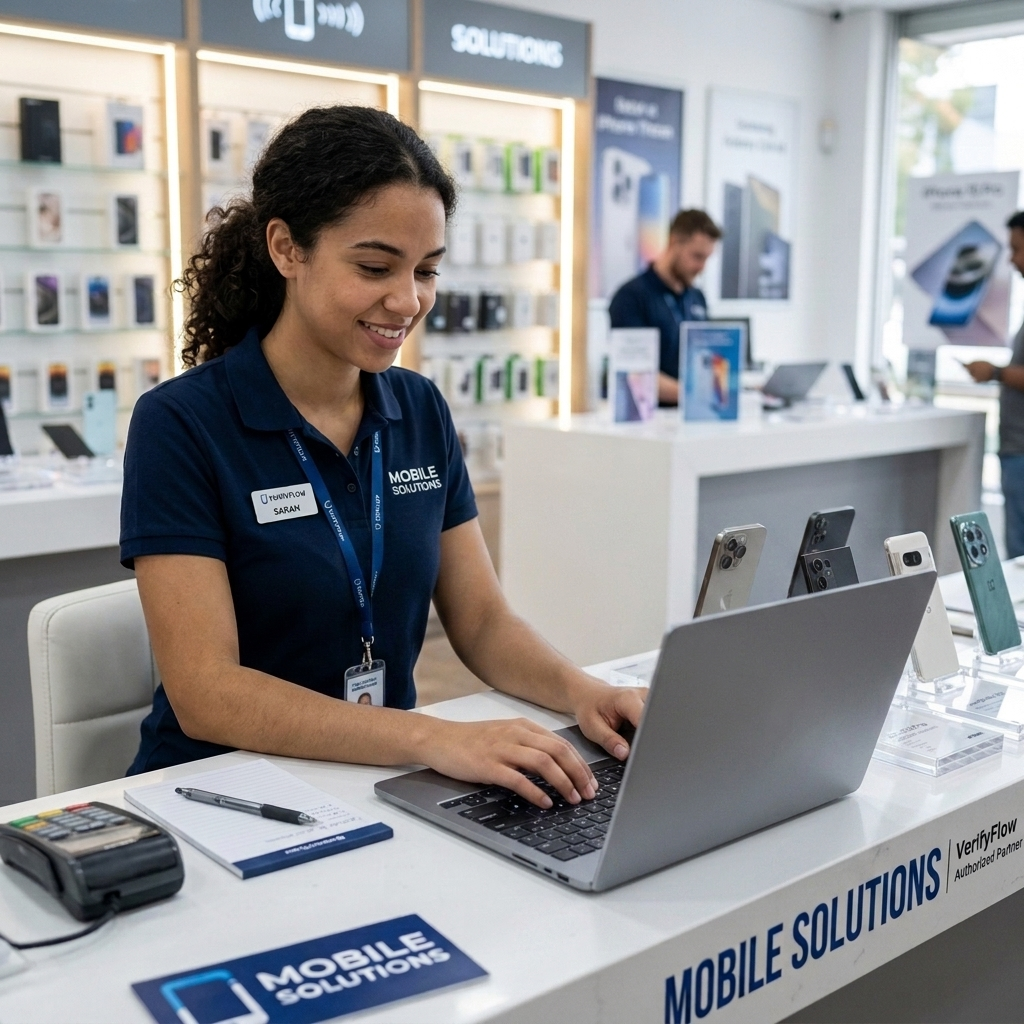
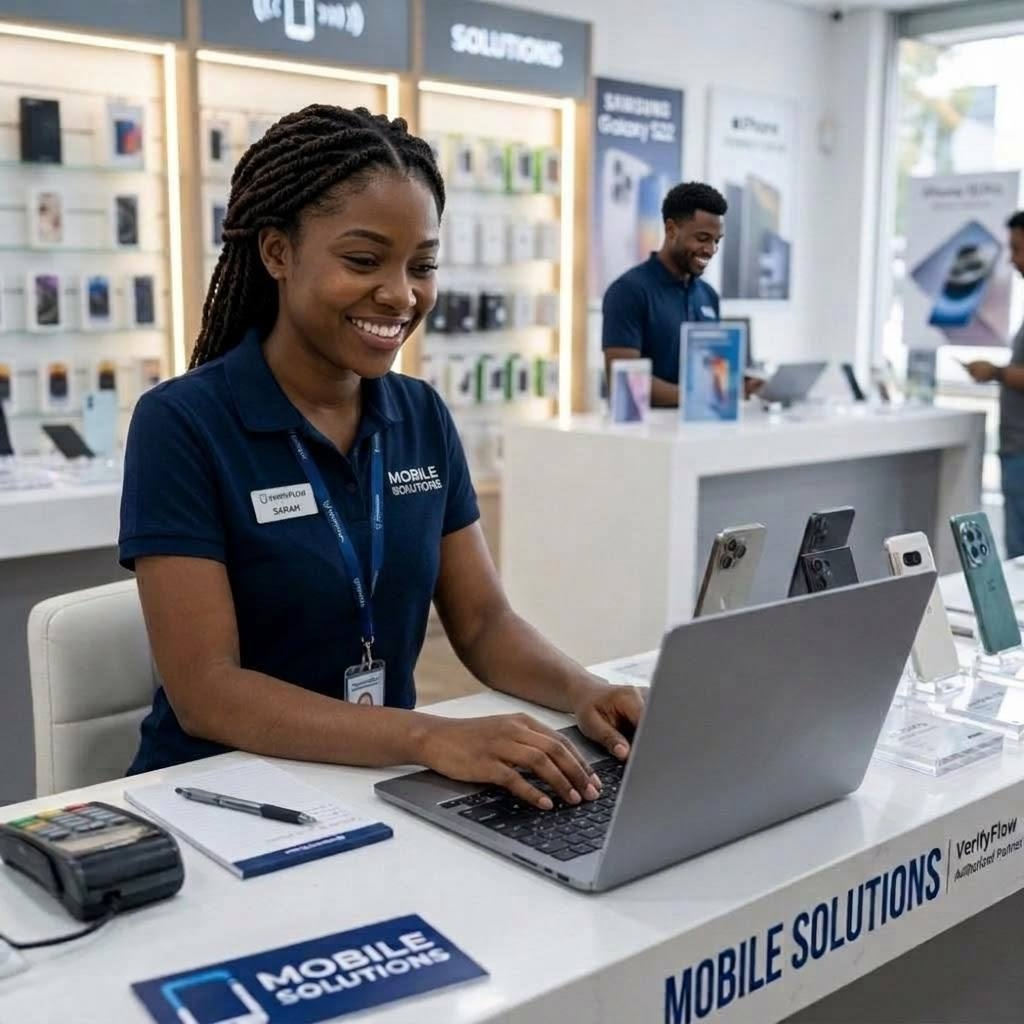
fixed side bar issue

diff --git a/apps/frontend/src/app/(dashboard)/layout.tsx b/apps/frontend/src/app/(dashboard)/layout.tsx
@@ -207,14 +207,14 @@ export default function DashboardLayout({ children }: { children: React.ReactNod
 
   return (
     <SubscriptionGuardProvider>
-      <div className="min-h-screen flex w-full max-w-full overflow-x-hidden bg-slate-50 dark:bg-slate-950 text-slate-900 dark:text-slate-100 pb-16 lg:pb-0 transition-colors duration-200">
+      <div className="h-screen w-full max-w-full overflow-hidden flex bg-slate-50 dark:bg-slate-950 text-slate-900 dark:text-slate-100 transition-colors duration-200">
         {/* Responsive Sidebar (Desktop Persistent + Mobile Drawer) */}
         <Sidebar isOpen={isMobileMenuOpen} onClose={() => setIsMobileMenuOpen(false)} />
 
-        {/* Main Workspace */}
-        <div className="flex-1 flex flex-col min-w-0 w-full max-w-full overflow-x-hidden overflow-y-auto">
+        {/* Main Workspace (Scrolls independently while Sidebar stays 100% fixed) */}
+        <div className="flex-1 flex flex-col h-full min-w-0 w-full max-w-full overflow-y-auto overflow-x-hidden pb-16 lg:pb-0">
           {/* Top Navigation Header */}
-          <header className="h-16 border-b border-slate-200/80 dark:border-slate-800 px-3 sm:px-6 flex items-center justify-between sticky top-0 bg-white/90 dark:bg-slate-900/90 backdrop-blur-md z-20 shadow-subtle transition-colors duration-200 w-full max-w-full">
+          <header className="h-16 shrink-0 border-b border-slate-200/80 dark:border-slate-800 px-3 sm:px-6 flex items-center justify-between sticky top-0 bg-white/90 dark:bg-slate-900/90 backdrop-blur-md z-20 shadow-subtle transition-colors duration-200 w-full max-w-full">
             <div className="flex items-center gap-2.5 sm:gap-3 shrink-0">
               {/* Mobile Hamburger Trigger */}
               <button

diff --git a/apps/frontend/src/components/Sidebar.tsx b/apps/frontend/src/components/Sidebar.tsx
@@ -28,10 +28,8 @@ import {
   X,
   FileSpreadsheet,
 } from 'lucide-react';
-import { Badge } from './ui/Badge';
-import { PwaInstallButton } from './PwaInstallButton';
 import { Logo } from './ui/Logo';
-import { ThemeToggle } from '@/components/theme/ThemeToggle';
+import { PwaInstallButton } from './PwaInstallButton';
 
 interface MenuItem {
   name: string;
@@ -246,12 +244,6 @@ export default function Sidebar({ isOpen = false, onClose }: SidebarProps) {
         <PwaInstallButton variant="sidebar" />
       </div>
 
-      {/* Theme Switcher in Mobile/Sidebar Drawer */}
-      <div className="px-3.5 py-2.5 border-t border-slate-100 dark:border-slate-800 flex items-center justify-between text-xs bg-slate-50/50 dark:bg-slate-950/30">
-        <span className="text-xs font-bold text-slate-600 dark:text-slate-400">Appearance</span>
-        <ThemeToggle variant="compact" />
-      </div>
-
       {/* User Footer with Log Out */}
       <div className="p-3.5 border-t border-slate-100 dark:border-slate-800 flex items-center justify-between text-xs bg-slate-50/50 dark:bg-slate-950/40">
         <div className="flex items-center gap-2.5 min-w-0">
@@ -280,8 +272,8 @@ export default function Sidebar({ isOpen = false, onClose }: SidebarProps) {
 
   return (
     <>
-      {/* Desktop Persistent Sidebar */}
-      <aside className="hidden lg:flex h-screen sticky top-0 z-30">
+      {/* Desktop Persistent Sidebar (Fixed in place) */}
+      <aside className="hidden lg:flex h-full shrink-0 z-30">
         {sidebarContent}
       </aside>
 

diff --git a/apps/frontend/src/app/page.tsx b/apps/frontend/src/app/page.tsx
@@ -1584,9 +1584,9 @@ export default function PublicLandingPageV2() {
         </div>
 
         <div className="text-center pt-4">
-          <Link href="/features" className="inline-flex items-center gap-2 px-6 py-3 rounded-2xl bg-slate-900 text-white font-extrabold text-xs sm:text-sm hover:bg-slate-800 transition shadow-md">
+          <Link href="/features" className="inline-flex items-center gap-2 px-6 py-3 rounded-2xl bg-teal-600 text-white font-extrabold text-xs sm:text-sm hover:bg-teal-500 transition shadow-md shadow-teal-600/20 border border-teal-500/40">
             <span>Explore All NoxGuarda Features & Workflows</span>
-            <ArrowRight className="w-4 h-4 text-teal-400" />
+            <ArrowRight className="w-4 h-4 text-white" />
           </Link>
         </div>
       </section>
